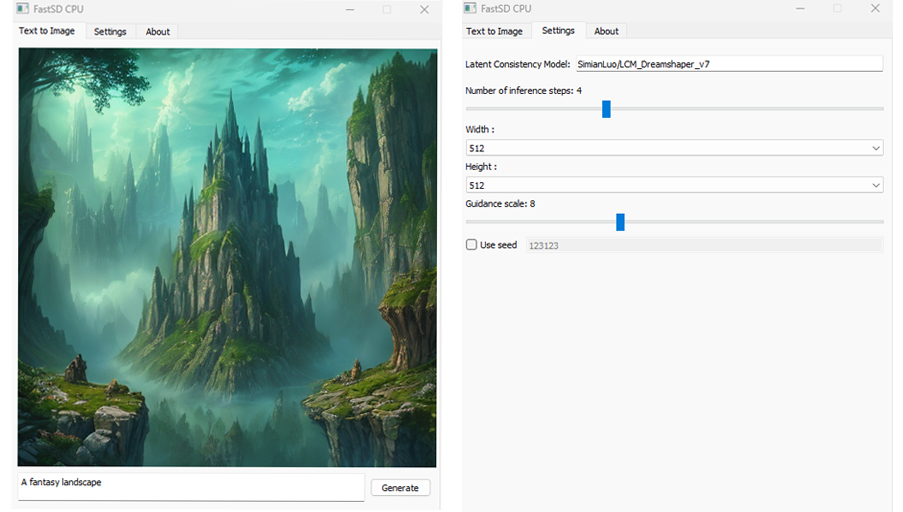
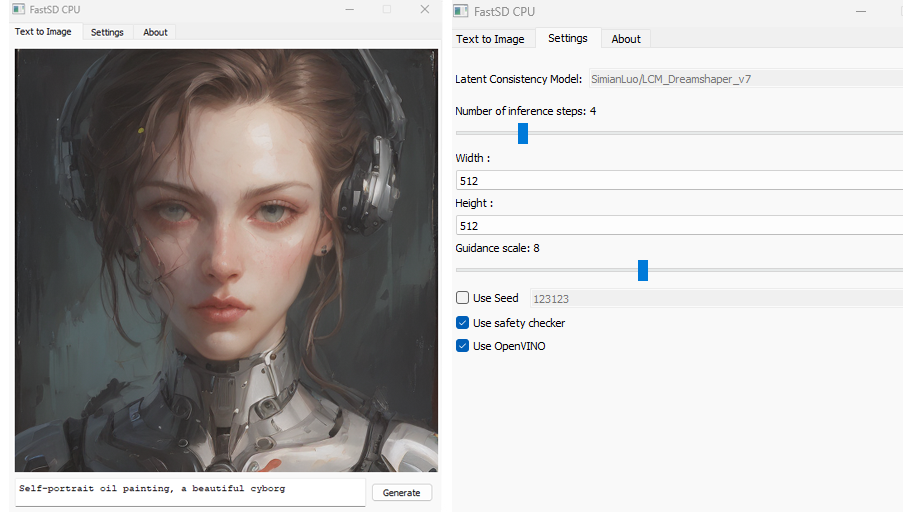
Updated screenshot,readme

diff --git a/main.py b/main.py
@@ -209,7 +209,7 @@ class MainWindow(QMainWindow):
         self.label = QLabel()
         self.label.setAlignment(Qt.AlignCenter)
         self.label.setText(
-            """<h1>FastSD CPU v1.0.0 beta 2</h1> 
+            """<h1>FastSD CPU v1.0.0 beta 3</h1> 
                <h3>(c)2023 - Rupesh Sreeraman</h3>
                 <h3>Faster stable diffusion on CPU</h3>
                  <h3>Based on Latent Consistency Models</h3>

diff --git a/Readme.md b/Readme.md
@@ -13,6 +13,16 @@ Based on Latent Consistency Models.
 - Supports Windows and Linux
 - Saves images
 - Settings to control,steps,guidance,seed
+- Added safty checker setting
+- Maximum inference steps increased to 25
+- OpenVINO support
+
+## OpenVINO support
+
+Thanks [deinferno](https://github.com/deinferno) for the OpenVINO model contribution.
+Currently it is tested on Windows only,by default it is disabled.
+We found 50% speed improvement using OpenVINO.
+Took 10 seconds to generate single 512x512 image on Core i7-12700
 
 ## FastSD CPU on Windows
 
